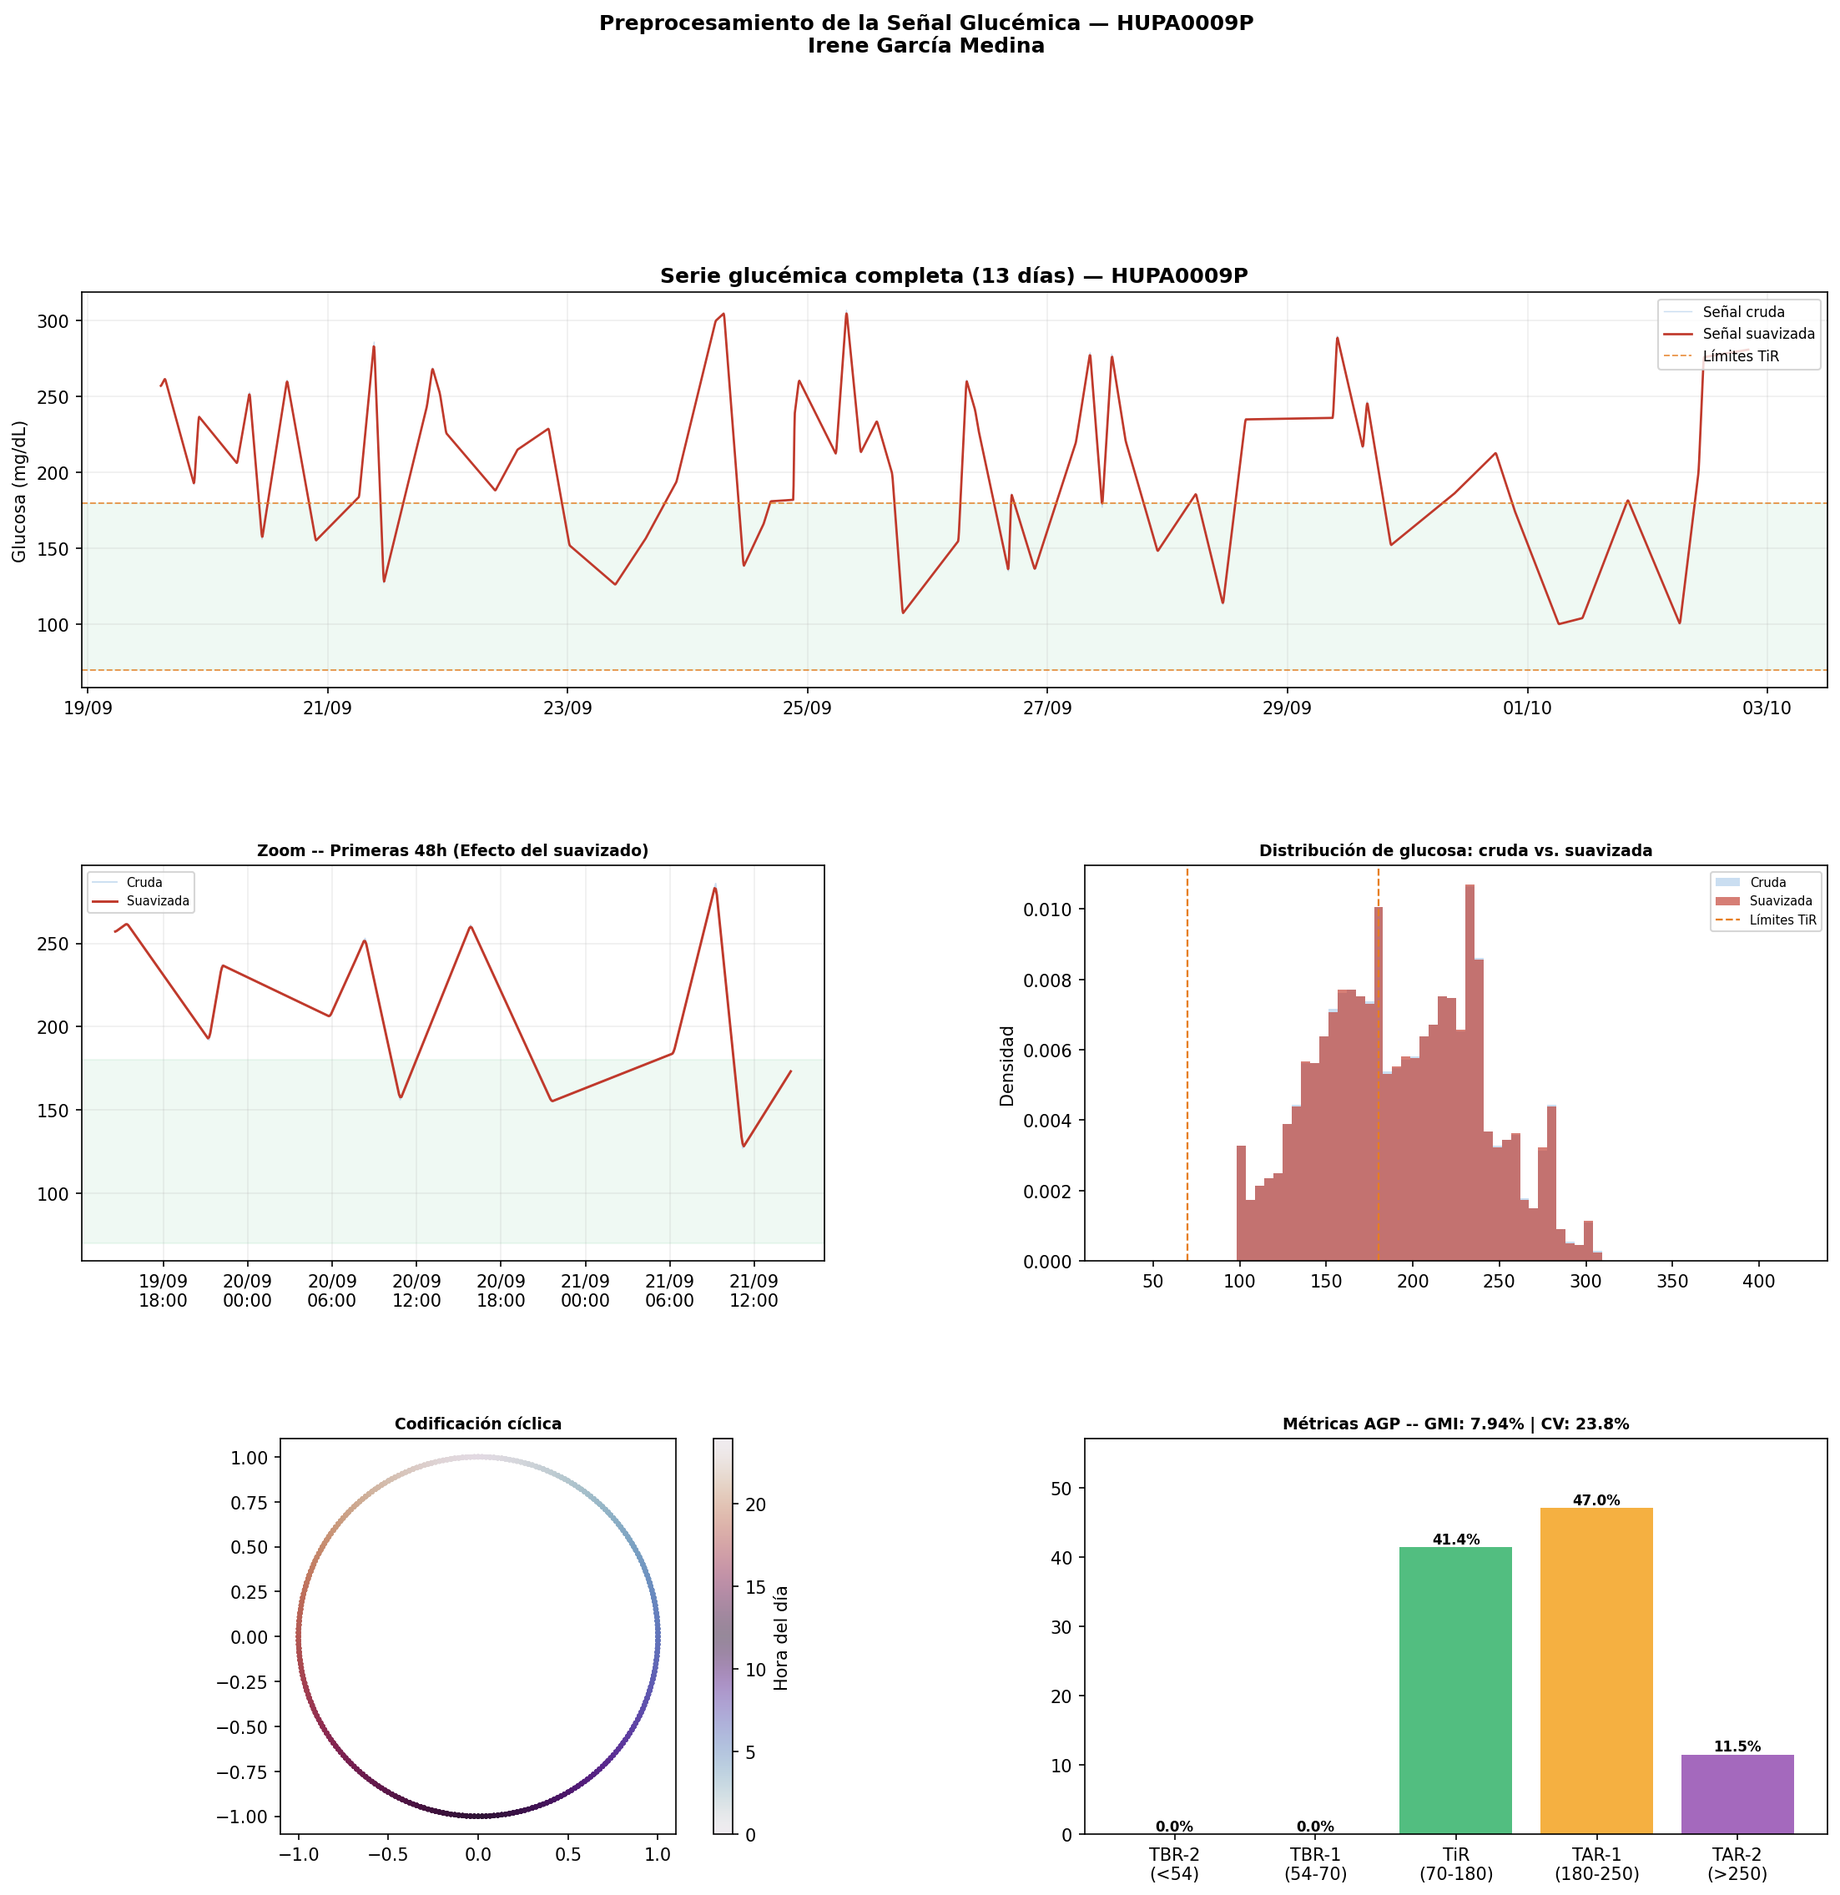
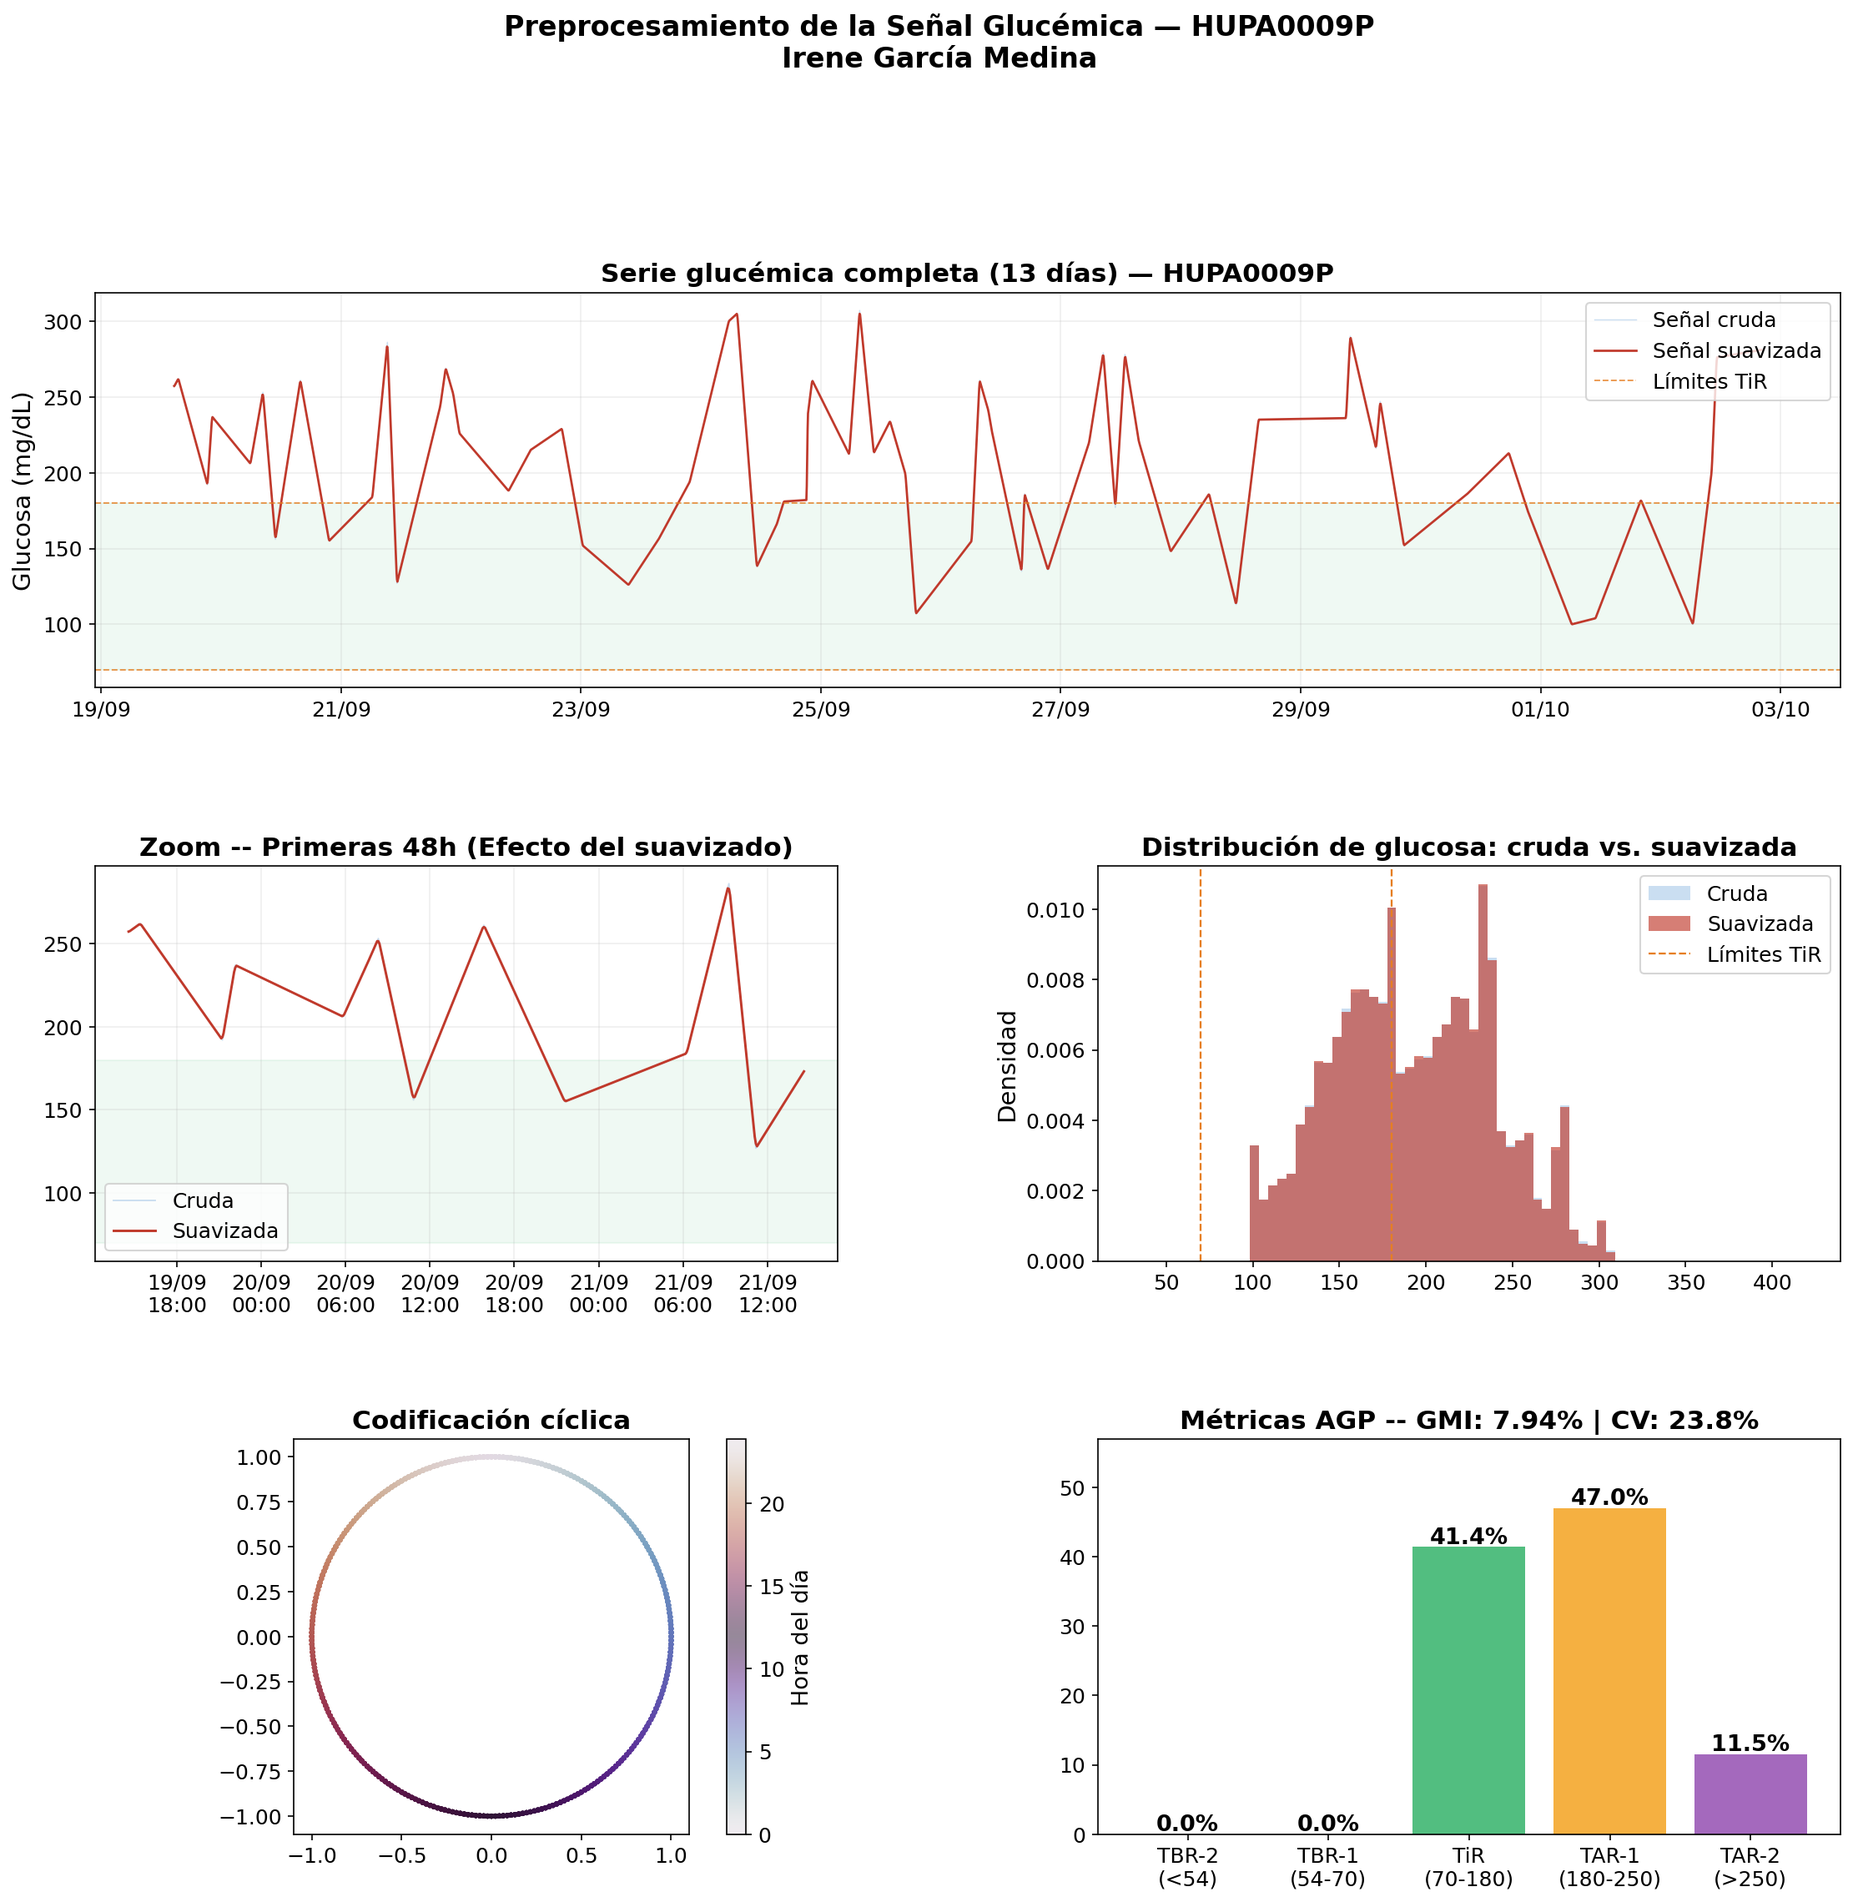
aumento de la fuente de las imagenes

diff --git a/ML/visualizacion.py b/ML/visualizacion.py
@@ -55,6 +55,16 @@ def generar_dashboard_rf(metricas: dict, df: pd.DataFrame) -> None:
 
     os.makedirs(OUTPUT_DIR, exist_ok=True)
 
+    plt.rcParams.update({
+        "font.size"        : 13,
+        "axes.titlesize"   : 15,
+        "axes.labelsize"   : 14,
+        "xtick.labelsize"  : 12,
+        "ytick.labelsize"  : 12,
+        "legend.fontsize"  : 12,
+        "figure.titlesize" : 17,
+    })
+
     fig = plt.figure(figsize=(16, 14))
     gs  = gridspec.GridSpec(2, 2, figure=fig, hspace=0.45, wspace=0.35)
 
@@ -66,16 +76,16 @@ def generar_dashboard_rf(metricas: dict, df: pd.DataFrame) -> None:
     errs   = [perm_std[f] for f in orden]
     cols   = [C1 if v == max(vals) else ("#E67E22" if v > np.mean(vals) else "#BDC3C7") for v in vals]
     bars   = ax1.barh(orden[::-1], vals[::-1], xerr=errs[::-1], color=cols[::-1], capsize=4, alpha=0.85, edgecolor="white")
-    ax1.set_xlabel("Importancia (reducción de RMSE por permutación)", fontsize=13)
+    ax1.set_xlabel("Importancia (reducción de RMSE por permutación)")
     ax1.set_title(
         f"Ranking de importancia de variables — Random Forest\n"
         f"Predicción glucosa a {HORIZON_MIN} min",
-        fontweight="bold", fontsize=14,
+        fontweight="bold",
     )
     ax1.axvline(0, color="gray", lw=0.8, ls="--")
     ax1.grid(axis="x", alpha=0.3)
     for bar, val in zip(bars, vals[::-1]):
-        ax1.text(val + 0.0005, bar.get_y() + bar.get_height() / 2, f"{val:.4f}", va="center", fontsize=9
+        ax1.text(val + 0.0005, bar.get_y() + bar.get_height() / 2, f"{val:.4f}", va="center", fontsize=12
         )
 
 
@@ -94,10 +104,10 @@ def generar_dashboard_rf(metricas: dict, df: pd.DataFrame) -> None:
     ax2.set_title(
         f"Glucosa real vs. predicha (set de test)\n"
         f"RMSE = {rmse_test:.1f} mg/dL | MAE = {mae_test:.1f} mg/dL",
-        fontweight="bold", fontsize=11,
+        fontweight="bold",
     )
-    ax2.set_ylabel("Glucosa (mg/dL)", fontsize=12)
-    ax2.legend(fontsize=8)
+    ax2.set_ylabel("Glucosa (mg/dL)")
+    ax2.legend()
     ax2.grid(alpha=0.2)
 
     # DISPERSIÓN REAL VS PREDICHO
@@ -108,10 +118,10 @@ def generar_dashboard_rf(metricas: dict, df: pd.DataFrame) -> None:
             max(y_test.max(), y_pred_test.max()) + 5]
     ax3.plot(lims, lims, "k--", lw=0.8, label="Predicción perfecta")
     ax3.set_xlim(lims); ax3.set_ylim(lims)
-    ax3.set_xlabel("Glucosa real (mg/dL)", fontsize=12)
-    ax3.set_ylabel("Glucosa predicha (mg/dL)", fontsize=12)
-    ax3.set_title(f"Dispersión — R² = {r2_test:.3f}", fontweight="bold", fontsize=11)
-    ax3.legend(fontsize=8)
+    ax3.set_xlabel("Glucosa real (mg/dL)")
+    ax3.set_ylabel("Glucosa predicha (mg/dL)")
+    ax3.set_title(f"Dispersión — R² = {r2_test:.3f}", fontweight="bold")
+    ax3.legend()
     ax3.grid(alpha=0.2)
 
     plt.suptitle(
@@ -138,6 +148,15 @@ def generar_dashboard_svm(metricas: dict, df: pd.DataFrame) -> None:
 
 
     os.makedirs(OUTPUT_DIR, exist_ok=True)
+    plt.rcParams.update({
+        "font.size"        : 13,
+        "axes.titlesize"   : 15,
+        "axes.labelsize"   : 14,
+        "xtick.labelsize"  : 12,
+        "ytick.labelsize"  : 12,
+        "legend.fontsize"  : 12,
+        "figure.titlesize" : 17,
+    })
     fig = plt.figure(figsize=(16, 12))
     gs  = gridspec.GridSpec(2, 3, figure=fig, hspace=0.50, wspace=0.35)
 
@@ -145,21 +164,21 @@ def generar_dashboard_svm(metricas: dict, df: pd.DataFrame) -> None:
     ax1 = fig.add_subplot(gs[0, 0])
     disp = ConfusionMatrixDisplay(confusion_matrix=cm, display_labels=["Ruido", "Caída real"])
     disp.plot(ax=ax1, cmap="Blues", colorbar=False)
-    ax1.set_title("Matriz de confusión", fontweight="bold", fontsize=12)
+    ax1.set_title("Matriz de confusión", fontweight="bold")
 
     # 2. Curva ROC
     ax2 = fig.add_subplot(gs[0, 1])
     ax2.plot(fpr, tpr, color=C1, lw=2, label=f"ROC (AUC = {roc_auc:.3f})")
     ax2.plot([0, 1], [0, 1], "k--", lw=1)
-    ax2.set_title("Curva ROC", fontweight="bold", fontsize=12)
-    ax2.legend(fontsize=8)
+    ax2.set_title("Curva ROC", fontweight="bold")
+    ax2.legend()
 
     # 3. Distribución (Histograma)
     ax3 = fig.add_subplot(gs[0, 2])
     ax3.hist(y_prob[y_test == 0], bins=20, alpha=0.5, color=C3, label="Ruido")
     ax3.hist(y_prob[y_test == 1], bins=20, alpha=0.5, color=C2, label="Caída Real")
-    ax3.set_title("Distribución de Probabilidades", fontweight="bold", fontsize=12)
-    ax3.legend(fontsize=8)
+    ax3.set_title("Distribución de Probabilidades", fontweight="bold")
+    ax3.legend()
 
     # 4. Serie Temporal (Últimos 14 días del test)
     ax4 = fig.add_subplot(gs[1, :])
@@ -195,25 +214,25 @@ def generar_dashboard_svm(metricas: dict, df: pd.DataFrame) -> None:
     ax4.set_title(
         f"Serie glucémica — eventos clasificados (últimos {n_dias} días)\n"
         f"Validación LOPO ({n_folds}/{n_tot} folds válidos)  |  ",
-        fontweight="bold", fontsize=11,
+        fontweight="bold",
     )
-    ax4.set_ylabel("Glucosa (mg/dL)", fontsize=12)
-    ax4.set_xlabel("Fecha", fontsize=12)
-    ax4.legend(fontsize=8, loc="upper right", framealpha=0.9)
+    ax4.set_ylabel("Glucosa (mg/dL)")
+    ax4.set_xlabel("Fecha")
+    ax4.legend(loc="upper right", framealpha=0.9)
     ax4.grid(alpha=0.2)
 
     # Barra de estado: métricas clave bajo el subplot
     ax4.text(
         0.01, 0.03,
         f"Sensibilidad: {sens:.3f}   Especificidad: {espec:.3f}   AUC: {roc_auc:.3f}   F1: {metricas.get('f1', 0):.3f}",
-        transform=ax4.transAxes, fontsize=8, color=FG_DIM if 'FG_DIM' in dir() else "#7F8C8D",
+        transform=ax4.transAxes, fontsize=12, color=FG_DIM if 'FG_DIM' in dir() else "#7F8C8D",
         va="bottom",
     )
 
     plt.suptitle(
         f"SVM — Clasificación de caídas bruscas de glucosa\n"
         f"Kernel: {SVM_KERNEL}  |  C={SVM_C}  |  Validación: LOPO ({n_folds}/{n_tot} folds)",
-        fontsize=14, fontweight="bold", y=1.01,
+        fontsize=17, fontweight="bold", y=1.01,
     )
     plt.savefig(PLOT_SVM, dpi=150, bbox_inches="tight")
     plt.close()
@@ -315,7 +334,7 @@ def escribir_reporte_svm(metricas: dict) -> None:
 
 
 # ===========================================================================
-# 2. VISOR INTERACTIVO TKINTER
+# 2. VISOR INTERACTIVO
 # ===========================================================================
 
 # Raíz del proyecto = carpeta padre de ML
@@ -342,8 +361,8 @@ FG_DIM   = "#7F8C8D"
 FG_WARN  = "#E67E22"
 FG_ERR   = "#E74C3C"
 
-FONT_NORMAL = ("Courier New", 10)
-FONT_SMALL  = ("Helvetica", 9)
+FONT_NORMAL = ("Courier New", 12)
+FONT_SMALL  = ("Helvetica", 11)
 
 
 def _estado_archivos():
@@ -364,7 +383,7 @@ class _PestañaImagen:
         import tkinter as tk
         marco = tk.Frame(parent_frame, bg=BG_PANEL)
         marco.pack(expand=True)
-        tk.Label(marco, text="⏳", font=("Helvetica", 48), bg=BG_PANEL, fg=FG_DIM).pack(pady=(40, 8))
+        tk.Label(marco, text="⏳", font=("Helvetica", 56), bg=BG_PANEL, fg=FG_DIM).pack(pady=(40, 8))
         tk.Label(
             marco,
             text=f"'{nombre}' aún no se ha generado.\n\nEjecuta desde la raíz:\n  python main.py",
@@ -430,7 +449,7 @@ def _build_txt_tab(parent_frame, nombre, ruta_):
     if not os.path.exists(ruta_):
         marco = tk.Frame(parent_frame, bg=BG_PANEL)
         marco.pack(expand=True)
-        tk.Label(marco, text="📄", font=("Helvetica", 48), bg=BG_PANEL, fg=FG_DIM).pack(pady=(40, 8))
+        tk.Label(marco, text="📄", font=("Helvetica", 56), bg=BG_PANEL, fg=FG_DIM).pack(pady=(40, 8))
         tk.Label(marco, text=f"'{nombre}' aún no se ha generado.\n\nEjecuta:\n  python main.py", font=FONT_SMALL, bg=BG_PANEL, fg=FG_DIM, justify="center").pack()
         return
 
@@ -463,8 +482,8 @@ def _build_txt_tab(parent_frame, nombre, ruta_):
     txt.pack(fill="both", expand=True)
 
     # Highlight
-    txt.tag_configure("sep",    foreground=ACCENT,   font=("Courier New", 10, "bold"))
-    txt.tag_configure("titulo", foreground=FG,        font=("Courier New", 10, "bold"))
+    txt.tag_configure("sep",    foreground=ACCENT,   font=("Courier New", 12, "bold"))
+    txt.tag_configure("titulo", foreground=FG,        font=("Courier New", 12, "bold"))
     txt.tag_configure("clave",  foreground=ACCENT2)
     txt.tag_configure("valor",  foreground="#F39C12")
     txt.tag_configure("flecha", foreground=FG_WARN)
@@ -528,7 +547,7 @@ def _run_visor():
     s.theme_use("clam")
     s.configure("TNotebook",     background=BG,     borderwidth=0)
     s.configure("TNotebook.Tab", background=BG_TAB, foreground=FG_DIM,
-                padding=[14, 6], font=("Helvetica", 10))
+                padding=[14, 6], font=("Helvetica", 12))
     s.map("TNotebook.Tab",
         background=[("selected", BG_PANEL)],
         foreground=[("selected", FG)])
@@ -539,7 +558,7 @@ def _run_visor():
     cab = tk.Frame(root, bg=BG, pady=10, padx=16)
     cab.pack(fill="x")
     tk.Label(cab, text="Resultados del TFG",
-            font=("Helvetica", 16, "bold"), bg=BG, fg=FG).pack(side="left")
+            font=("Helvetica", 19, "bold"), bg=BG, fg=FG).pack(side="left")
     tk.Label(cab, text="Predicción de glucosa con LSTM · HUPA0001P",
             font=FONT_SMALL, bg=BG, fg=FG_DIM).pack(side="left", padx=16)
 

diff --git a/Preprocessing/visualizacion.py b/Preprocessing/visualizacion.py
@@ -41,6 +41,15 @@ def generar_diagnostico(df, patient_id: str = None):
     # ------------------------------------------------------------------
     
     print(f"\n[+] Generando dashboard de preprocesamiento: {plot_path}")
+    plt.rcParams.update({
+        "font.size"        : 13,
+        "axes.titlesize"   : 15,
+        "axes.labelsize"   : 14,
+        "xtick.labelsize"  : 12,
+        "ytick.labelsize"  : 12,
+        "legend.fontsize"  : 12,
+        "figure.titlesize" : 16,
+    })
     fig = plt.figure(figsize=(18, 16))
     gs  = gridspec.GridSpec(3, 2, figure=fig, hspace=0.45, wspace=0.35)
     C_RAW, C_CLEAN, C_VERDE = "#A8C8E8", "#C0392B", "#27AE60"
@@ -56,7 +65,7 @@ def generar_diagnostico(df, patient_id: str = None):
     ax1.set_title(f"Serie glucémica completa ({metricas['dias']} días) — {patient_id}", fontweight="bold")
     ax1.set_ylabel("Glucosa (mg/dL)")
     ax1.xaxis.set_major_formatter(mdates.DateFormatter("%d/%m"))
-    ax1.legend(fontsize=8, loc="upper right")
+    ax1.legend(loc="upper right")
     ax1.grid(alpha=0.2)
 
     # 2. Zoom primeras 48h
@@ -68,9 +77,9 @@ def generar_diagnostico(df, patient_id: str = None):
     ax2.plot(dz.index, dz["glucose_raw"], color=C_RAW, lw=0.9, alpha=0.6, label="Cruda")
     ax2.plot(dz.index, dz[GLUCOSE_COL], color=C_CLEAN, lw=1.4, label="Suavizada")
     ax2.axhspan(70, 180, alpha=0.07, color=C_VERDE)
-    ax2.set_title("Zoom -- Primeras 48h (Efecto del suavizado)", fontweight="bold", fontsize=9)
+    ax2.set_title("Zoom -- Primeras 48h (Efecto del suavizado)", fontweight="bold")
     ax2.xaxis.set_major_formatter(mdates.DateFormatter("%d/%m\n%H:%M"))
-    ax2.legend(fontsize=7)
+    ax2.legend()
     ax2.grid(alpha=0.2)
 
     # 3. Histograma de densidad
@@ -81,16 +90,18 @@ def generar_diagnostico(df, patient_id: str = None):
     ax3.hist(df[GLUCOSE_COL],  bins=bins, color=C_CLEAN, alpha=0.65, density=True, label="Suavizada")
     ax3.axvline(70,  color="#E67E22", ls="--", lw=1.1, label="Límites TiR")
     ax3.axvline(180, color="#E67E22", ls="--", lw=1.1)
-    ax3.set_title("Distribución de glucosa: cruda vs. suavizada", fontweight="bold", fontsize=9)
+    ax3.set_title("Distribución de glucosa: cruda vs. suavizada", fontweight="bold")
     ax3.set_ylabel("Densidad")
-    ax3.legend(fontsize=7)
+    ax3.legend()
 
     # 4. Reloj circadiano (seno/coseno)
 
     ax4 = fig.add_subplot(gs[2, 0])
     sc = ax4.scatter(df["time_hour_sin"], df["time_hour_cos"], c=df.index.hour + df.index.minute / 60, cmap="twilight", s=4, alpha=0.5)
-    plt.colorbar(sc, ax=ax4, label="Hora del día")
-    ax4.set_title("Codificación cíclica", fontweight="bold", fontsize=9)
+    cb = plt.colorbar(sc, ax=ax4, label="Hora del día")
+    cb.ax.tick_params(labelsize=12)
+    cb.set_label("Hora del día", fontsize=13)
+    ax4.set_title("Codificación cíclica", fontweight="bold")
     ax4.set_aspect("equal")
 
     # 5. Métricas AGP
@@ -101,14 +112,15 @@ def generar_diagnostico(df, patient_id: str = None):
     colores    = ["#C0392B", "#E67E22", "#27AE60", "#F39C12", "#8E44AD"]
     bars = ax5.bar(categorias, valores, color=colores, alpha=0.8)
     for bar in bars:
-        ax5.text(bar.get_x() + bar.get_width() / 2, bar.get_height() + 0.5, f"{bar.get_height():.1f}%", ha="center", fontweight="bold", size=8)
-    ax5.set_title(f"Métricas AGP -- GMI: {metricas['gmi']:.2f}% | CV: {metricas['cv']:.1f}%", fontweight="bold", fontsize=9)
+        ax5.text(bar.get_x() + bar.get_width() / 2, bar.get_height() + 0.5, f"{bar.get_height():.1f}%", ha="center", fontweight="bold", size=13)
+    ax5.set_title(f"Métricas AGP -- GMI: {metricas['gmi']:.2f}% | CV: {metricas['cv']:.1f}%", fontweight="bold")
     ax5.set_ylim(0, max(valores) + 10)
+    ax5.tick_params(axis="x", labelsize=12)
 
     plt.suptitle(
         f"Preprocesamiento de la Señal Glucémica — {patient_id}\n"
         "Irene García Medina",
-        fontsize=12, fontweight="bold", y=1.02,
+        fontsize=16, fontweight="bold", y=1.02,
     )
     plt.savefig(plot_path, dpi=150, bbox_inches="tight")
     plt.close()
